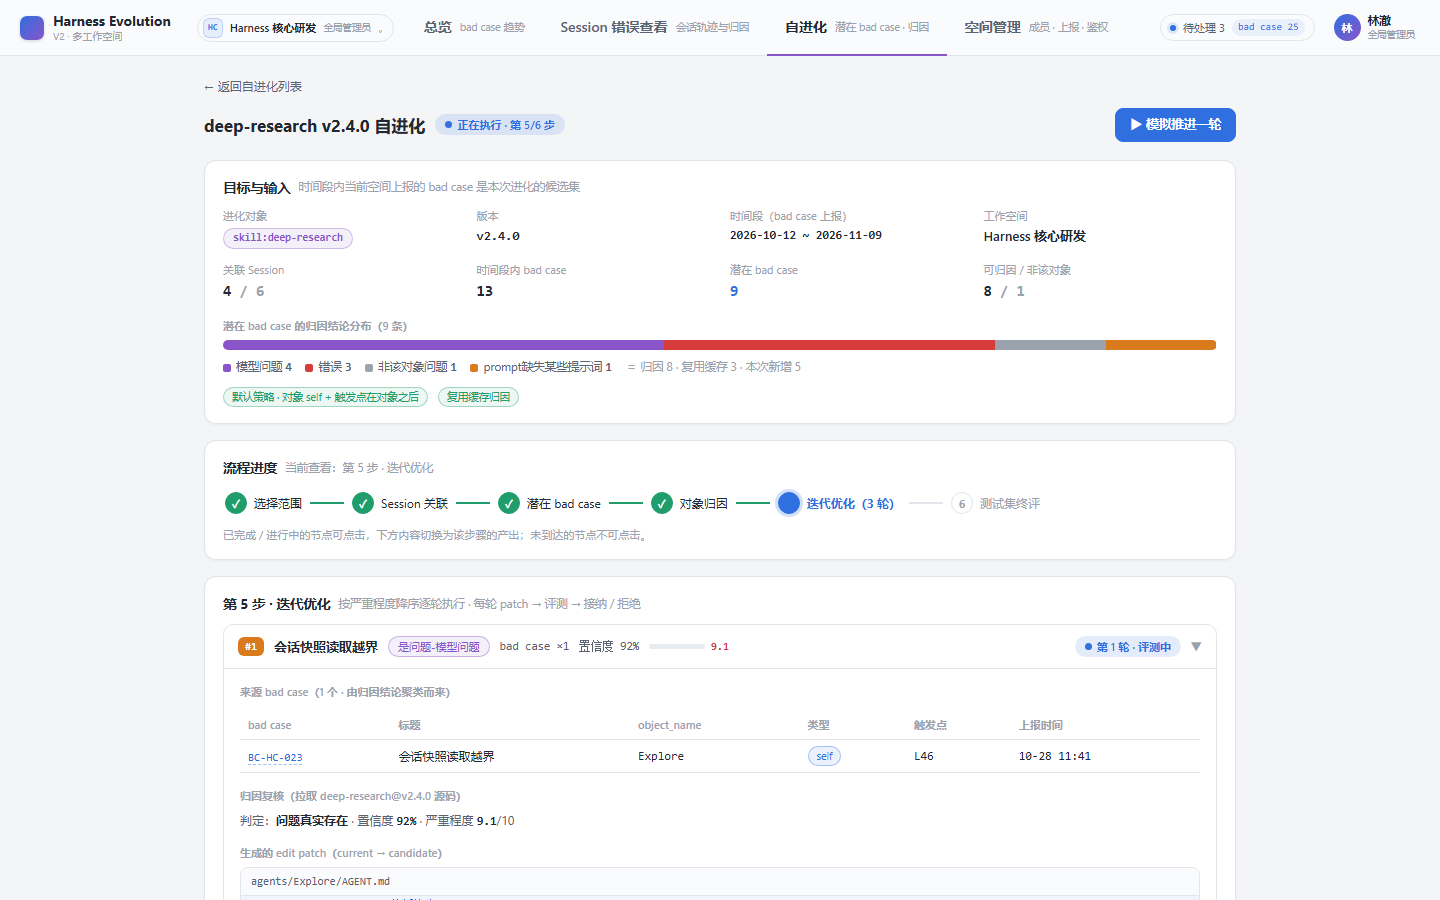
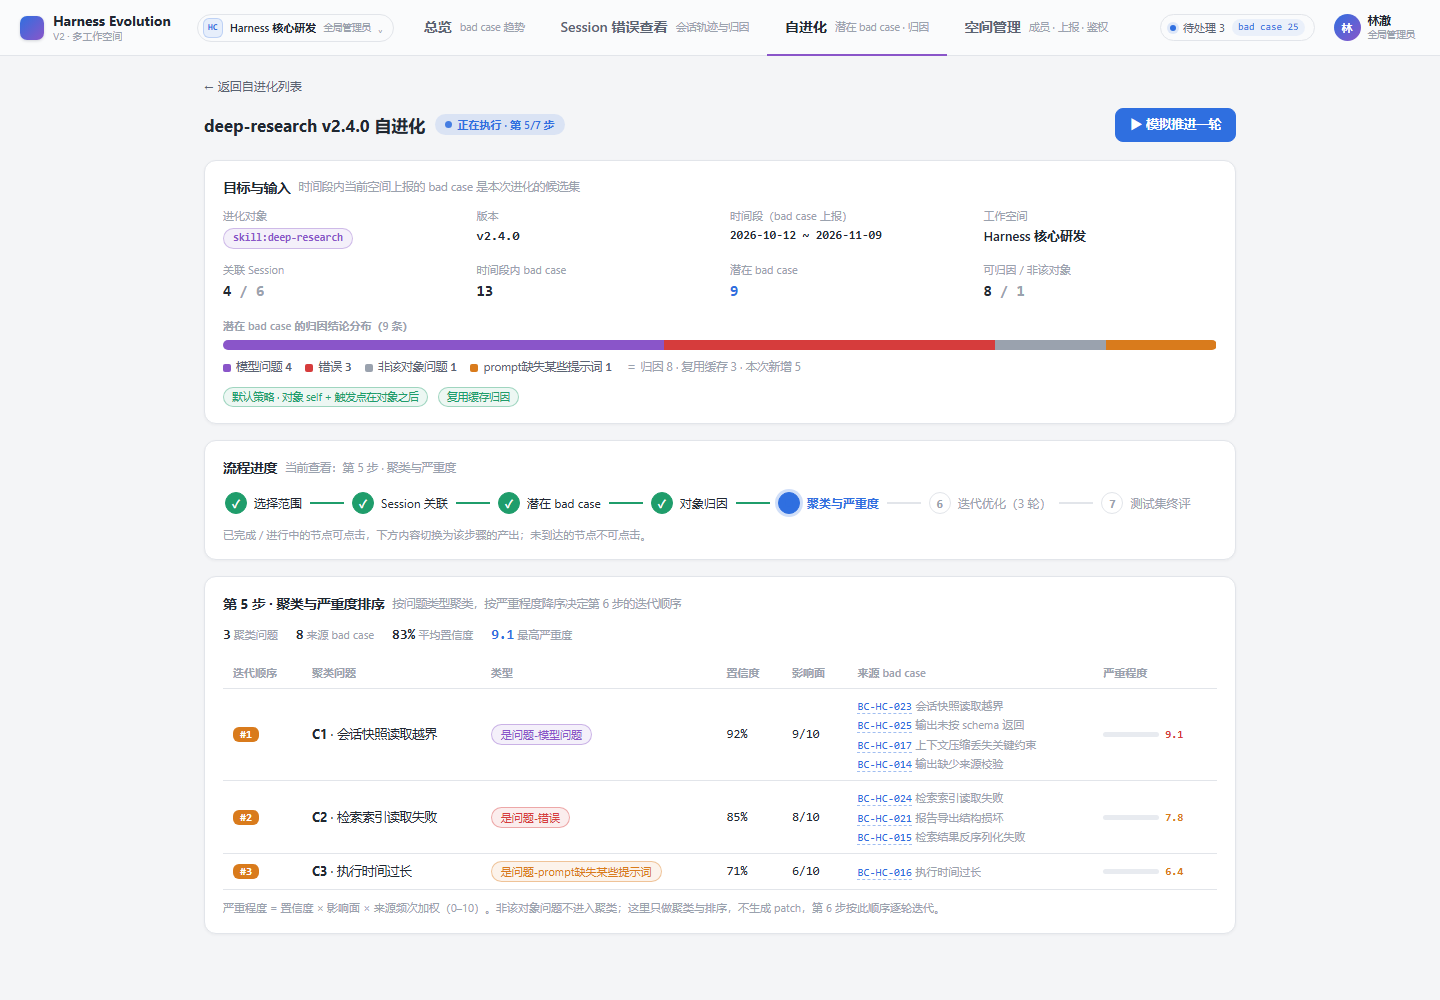
feat(prototype): add cluster and severity step before iteration

diff --git a/plans/ui-prototype-v2/harness-evolution.html b/plans/ui-prototype-v2/harness-evolution.html
@@ -3369,19 +3369,28 @@ function evMakeRun(cfg) {
     if (/计划|拆分/.test(title)) return EV_PATCH.plan;
     return EV_PATCH.deser;
   };
-  run.clusters = attributed.slice(0, count).map((r, i) => {
+  const groups = [];
+  attributed.forEach(r => {
+    let g = groups.find(x => x.category === r.category);
+    if (!g) { g = { category: r.category, rows: [] }; groups.push(g); }
+    g.rows.push(r);
+  });
+  run.clusters = groups.slice(0, count).map((g, i) => {
+    const r = g.rows[0];
     const tpl = EV_CLUSTER_TEMPLATES[i] || EV_CLUSTER_TEMPLATES[0];
     return {
       ...tpl, id: 'C' + (i + 1), title: r.c.title,
       type: typeMap[r.category] || tpl.type,
       phenomenon: r.c.detail, patch: patchFor(r.c.title),
-      caseIds: [r.c.id],
+      caseIds: g.rows.map(x => x.c.id),
       accepted: i === 0 ? true : (i === 1 ? tpl.accepted : false),
       commit: i === 0 ? tpl.commit : (i === 1 ? tpl.commit : null),
     };
   });
+  run.clusters.sort((a, b) => b.sev - a.sev);
   run.final.bestVersion = cfg.target.version + '-best';
   run.progress = cfg.progress ?? 0;
+  if (cfg.progress === 8) run.progress = evTotal(run);
   return run;
 }
 
@@ -3421,18 +3430,25 @@ Object.assign(EV_RUNS[1].final, {
 
 const EV_STATE = { expanded: new Set(), selStep: null, lastDetailId: null, wz: null, targetDialog: null };
 
-function evTotal(run) { return 4 + run.clusters.length + 1; }
+function evTotal(run) { return 5 + run.clusters.length + 1; }
 function evIsDone(run) { return run.progress >= evTotal(run); }
-function evRoundDone(run, i) { return run.progress >= 5 + i; }
-function evRoundActive(run, i) { return run.progress === 4 + i; }
+function evRoundDone(run, i) { return run.progress >= 6 + i; }
+function evRoundActive(run, i) { return run.progress === 5 + i; }
+function evStageIndex(run) {
+  if (run.progress < 5) return run.progress;
+  if (run.progress < 5 + run.clusters.length) return 5;
+  return 6;
+}
 function evStageDone(run, stage) {
-  if (stage === 4) return run.progress >= 4 + run.clusters.length;
-  if (stage === 5) return evIsDone(run);
+  if (stage === 4) return run.progress >= 5;
+  if (stage === 5) return run.progress >= 5 + run.clusters.length;
+  if (stage === 6) return evIsDone(run);
   return run.progress > stage;
 }
 function evStageActive(run, stage) {
-  if (stage === 4) return run.progress >= 4 && run.progress < 4 + run.clusters.length;
-  if (stage === 5) return run.progress === 4 + run.clusters.length && !evIsDone(run);
+  if (stage === 4) return run.progress === 4;
+  if (stage === 5) return run.progress >= 5 && run.progress < 5 + run.clusters.length;
+  if (stage === 6) return run.progress === 5 + run.clusters.length && !evIsDone(run);
   return run.progress === stage;
 }
 function evTypeColor(t) {
@@ -3460,7 +3476,7 @@ function evRunsOfWs() { return EV_RUNS.filter(r => r.workspace === evCurrentWs()
 function evTargetsOfWs() { return (EV_TARGETS[evCurrentWs()] || []).filter(t => t.enabled); }
 
 function evStatusBadge(run) {
-  if (!evIsDone(run)) return `<span class="badge running"><span class="pulse"></span>正在执行 · 第 ${Math.min(6, Math.max(1, run.progress + 1))}/6 步</span>`;
+  if (!evIsDone(run)) return `<span class="badge running"><span class="pulse"></span>正在执行 · 第 ${evStageIndex(run) + 1}/7 步</span>`;
   return run.final.verdict ? `<span class="badge done-ok">✓ 已完成 · 自进化有效</span>` : `<span class="badge done-no">已完成 · 无收益</span>`;
 }
 
@@ -3480,9 +3496,9 @@ function evRunCard(run) {
   const m = run.model;
   let tail;
   if (!evIsDone(run)) {
-    const names = ['选择范围', 'Session 关联', '筛选潜在 bad case', '对象归因', '迭代优化', '测试集终评'];
-    const stage = run.progress < 4 ? run.progress : (run.progress < 4 + run.clusters.length ? 4 : 5);
-    tail = `<div class="run-progress"><div class="bar"><div class="fill" style="width:${pct}%"></div></div><span class="txt">第 ${stage + 1}/6 步 · ${names[stage]} · ${pct}%</span></div>`;
+    const names = ['选择范围', 'Session 关联', '筛选潜在 bad case', '对象归因', '聚类与严重度', '迭代优化', '测试集终评'];
+    const stage = evStageIndex(run);
+    tail = `<div class="run-progress"><div class="bar"><div class="fill" style="width:${pct}%"></div></div><span class="txt">第 ${stage + 1}/7 步 · ${names[stage]} · ${pct}%</span></div>`;
   } else {
     tail = `<div class="final-line"><span style="color:var(--text-dim)">best <b class="mono">${run.final.bestScore.toFixed(1)}</b> vs 初始 <b class="mono">${run.final.initScore.toFixed(1)}</b></span>${evDelta(run.final.bestScore - run.final.initScore)}<span style="color:var(--text-faint)">· 接纳 ${accepted}/${run.clusters.length} 个 patch</span></div>`;
   }
@@ -3561,13 +3577,13 @@ function evInfoPanel(run) {
   </div>`;
 }
 
-const EV_STEPS = ['选择范围', 'Session 关联', '潜在 bad case', '对象归因', '迭代优化', '测试集终评'];
+const EV_STEPS = ['选择范围', 'Session 关联', '潜在 bad case', '对象归因', '聚类与严重度', '迭代优化', '测试集终评'];
 function evStepper(run, sel) {
   return `<div class="stepper">` + EV_STEPS.map((s, i) => {
     const done = evStageDone(run, i), active = evStageActive(run, i);
     const clickable = done || active;
     const ico = done ? '✓' : (active ? '<span class="pulse" style="width:8px;height:8px"></span>' : i + 1);
-    return `${i ? `<div class="conn ${evStageDone(run, i - 1) ? 'done' : ''}"></div>` : ''}<div class="xstep ${done ? 'done' : active ? 'active' : ''}${clickable ? ' clickable' : ''}${sel === i ? ' selected' : ''}"${clickable ? ` data-action="ev-sel-step" data-step="${i}"` : ''}><span class="ico">${ico}</span><span class="lbl">${evEsc(s)}${i === 4 ? `（${run.clusters.length} 轮）` : ''}</span></div>`;
+    return `${i ? `<div class="conn ${evStageDone(run, i - 1) ? 'done' : ''}"></div>` : ''}<div class="xstep ${done ? 'done' : active ? 'active' : ''}${clickable ? ' clickable' : ''}${sel === i ? ' selected' : ''}"${clickable ? ` data-action="ev-sel-step" data-step="${i}"` : ''}><span class="ico">${ico}</span><span class="lbl">${evEsc(s)}${i === 5 ? `（${run.clusters.length} 轮）` : ''}</span></div>`;
   }).join('') + `</div>`;
 }
 
@@ -3709,18 +3725,53 @@ function evCluster(run, c, i) {
   </div>`;
 }
 
+function evStepCluster(run) {
+  const m = run.model;
+  const clusters = run.clusters;
+  const totalCases = new Set(clusters.flatMap(c => c.caseIds || [])).size;
+  const avgConf = clusters.length ? clusters.reduce((a, c) => a + c.conf, 0) / clusters.length : 0;
+  const maxSev = clusters.length ? Math.max(...clusters.map(c => c.sev)) : 0;
+  const rows = clusters.map((c, i) => {
+    const cases = (c.caseIds || []).map(id => {
+      const x = caseById(id);
+      return x ? `<div>${evCaseLink(x)} <span class="v2-note">${evEsc(x.title)}</span></div>` : `<div class="mono">${evEsc(id)}</div>`;
+    }).join('');
+    return `<tr>
+      <td class="num"><span class="rank">#${i + 1}</span></td>
+      <td><b>${evEsc(c.id)}</b> · ${evEsc(c.title)}</td>
+      <td>${evTypeChip(c.type)}</td>
+      <td class="num">${(c.conf * 100).toFixed(0)}%</td>
+      <td class="num">${c.impact}/10</td>
+      <td>${cases || '<span class="v2-note">—</span>'}</td>
+      <td>${evSevHTML(c.sev)}</td>
+    </tr>`;
+  }).join('');
+  return `<div class="card panel">
+    <div class="sec-title">第 5 步 · 聚类与严重度排序 <span class="sub">按问题类型聚类，按严重程度降序决定第 6 步的迭代顺序</span></div>
+    <div class="wz-stats" style="margin-bottom:11px">
+      <span class="st"><b>${clusters.length}</b><span>聚类问题</span></span>
+      <span class="st"><b>${totalCases}</b><span>来源 bad case</span></span>
+      <span class="st"><b>${(avgConf * 100).toFixed(0)}%</b><span>平均置信度</span></span>
+      <span class="st accent"><b>${maxSev.toFixed(1)}</b><span>最高严重度</span></span>
+    </div>
+    <table class="metrics"><thead><tr><th>迭代顺序</th><th>聚类问题</th><th>类型</th><th>置信度</th><th>影响面</th><th>来源 bad case</th><th>严重程度</th></tr></thead>
+      <tbody>${rows || '<tr><td colspan="7" class="waiting">没有可聚类的归因结论</td></tr>'}</tbody></table>
+    <p class="v2-note" style="margin-top:9px">严重程度 = 置信度 × 影响面 × 来源频次加权（0–10）。非该对象问题不进入聚类；这里只做聚类与排序，不生成 patch，第 6 步按此顺序逐轮迭代。</p>
+  </div>`;
+}
+
 function evStepIter(run) {
   return `<div class="card panel">
-    <div class="sec-title">第 5 步 · 迭代优化 <span class="sub">按严重程度降序逐轮执行 · 每轮 patch → 评测 → 接纳 / 拒绝</span></div>
+    <div class="sec-title">第 6 步 · 迭代优化 <span class="sub">基于第 5 步聚类与严重度排序，逐轮执行 patch → 评测 → 接纳 / 拒绝</span></div>
     ${run.clusters.length ? run.clusters.map((c, i) => evCluster(run, c, i)).join('') : '<div class="waiting">没有可归因的潜在 bad case，本次运行不进入迭代。</div>'}
   </div>`;
 }
 function evStepFinal(run) {
-  if (!evIsDone(run)) return `<div class="card panel"><div class="sec-title">第 6 步 · 测试集终评</div><div class="waiting">等待 ${run.clusters.length} 轮迭代全部完成后，在测试集上评测 best 与初始版本。</div></div>`;
+  if (!evIsDone(run)) return `<div class="card panel"><div class="sec-title">第 7 步 · 测试集终评</div><div class="waiting">等待 ${run.clusters.length} 轮迭代全部完成后，在测试集上评测 best 与初始版本。</div></div>`;
   const f = run.final;
   const accepted = run.clusters.filter(c => c.accepted);
   return `<div class="card panel">
-    <div class="sec-title">第 6 步 · 测试集终评 <span class="sub">M 轮迭代完成后的最终结果</span></div>
+    <div class="sec-title">第 7 步 · 测试集终评 <span class="sub">M 轮迭代完成后的最终结果</span></div>
     <div class="verdict ${f.verdict ? 'ok' : 'no'}">
       <span class="big">${f.verdict ? '✓ 自进化有效' : '✗ 未产生收益'}</span>
       <span class="desc">best <b class="mono">${evEsc(f.bestVersion)}</b> 测试集得分 <b class="mono">${f.bestScore.toFixed(1)}</b> vs 初始 ${run.target.version} <b class="mono">${f.initScore.toFixed(1)}</b>（${evDelta(f.bestScore - f.initScore)}）</span>
@@ -3734,11 +3785,11 @@ function evStepFinal(run) {
 }
 
 function evStepContent(run, sel) {
-  return [evStepScope, evStepAssoc, evStepPotential, evStepAttr, evStepIter, evStepFinal][sel](run);
+  return [evStepScope, evStepAssoc, evStepPotential, evStepAttr, evStepCluster, evStepIter, evStepFinal][sel](run);
 }
 function evDefaultStep(run) {
-  for (let i = 0; i < 6; i++) if (evStageActive(run, i)) return i;
-  return 5;
+  for (let i = 0; i < 7; i++) if (evStageActive(run, i)) return i;
+  return 6;
 }
 
 function evRenderDetail(id) {
@@ -3750,7 +3801,7 @@ function evRenderDetail(id) {
     const ai = run.clusters.findIndex((c, i) => evRoundActive(run, i));
     if (run.clusters[ai >= 0 ? ai : 0]) EV_STATE.expanded.add(id + ':' + run.clusters[ai >= 0 ? ai : 0].id);
   }
-  const sel = Math.min(5, Math.max(0, EV_STATE.selStep));
+  const sel = Math.min(6, Math.max(0, EV_STATE.selStep));
   evApp.innerHTML = `<div class="wrap">
     <a class="back" href="#/runs">← 返回自进化列表</a>
     <div class="detail-head">
@@ -3873,7 +3924,7 @@ function evWzRun() {
     target: { kind: t.kind, name: t.objectName, version: EV_STATE.wz.version },
     window: [EV_STATE.wz.from, EV_STATE.wz.to], policy: EV_STATE.wz.policy,
     policyRules: { includeSelf: EV_STATE.wz.includeSelf, includeAfter: EV_STATE.wz.includeAfter, sameObject: EV_STATE.wz.sameObject },
-    cache: EV_STATE.wz.cache, progress: 4,
+    cache: EV_STATE.wz.cache, progress: 5,
   };
 }
 function evWizardModel() { const r = evWzRun(); return { run: r, m: evRunModel(r) }; }
@@ -4068,7 +4119,7 @@ document.addEventListener('click', e => {
       target: { kind: t.kind, name: t.objectName, version: EV_STATE.wz.version },
       window: [EV_STATE.wz.from, EV_STATE.wz.to], policy: EV_STATE.wz.policy,
       policyRules: { includeSelf: EV_STATE.wz.includeSelf, includeAfter: EV_STATE.wz.includeAfter, sameObject: EV_STATE.wz.sameObject },
-      cache: EV_STATE.wz.cache, createdAt: '2026-11-10 09:10', progress: 4,
+      cache: EV_STATE.wz.cache, createdAt: '2026-11-10 09:10', progress: 5,
     });
     EV_RUNS.unshift(run);
     evModal.innerHTML = ''; EV_STATE.expanded.clear(); EV_STATE.selStep = null; EV_STATE.lastDetailId = null;
@@ -4109,6 +4160,7 @@ window.startEvolutionFromCase = function (caseId) {
   evWizardOpen(caseId);
 };
 window.__evOpenWizard = evWizardOpen;
+window.EV_RUNS = EV_RUNS;
 window.__evRenderWizard = evRenderWizard;
 window.__evState = EV_STATE;
 
@@ -4931,8 +4983,16 @@ function v2Boot() {
     v2LoginAs(userParam, { keepPage: true, silent: true, auto: true });
     v2SetPage(V2.page);
     if (q.has('step') && window.__evState) {
-      window.__evState.selStep = Math.max(0, Math.min(5, Number(q.get('step')) || 0));
+      window.__evState.selStep = Math.max(0, Math.min(6, Number(q.get('step')) || 0));
       if (window.evRoute) window.evRoute();
+    }
+    if (q.has('runprogress') && window.evRenderDetail) {
+      const rm = location.hash.match(/#\/run\/([^/?]+)/);
+      const run = rm && window.EV_RUNS && window.EV_RUNS.find(r => r.id === rm[1]);
+      if (run) {
+        run.progress = Math.max(0, Math.min(evTotal(run), Number(q.get('runprogress')) || 0));
+        window.evRenderDetail(run.id);
+      }
     }
     if (q.get('page') === 'session' && q.get('view') === 'errors') {
       const apply = () => { if (window.__bootDeepLink) window.__bootDeepLink(q); };

diff --git a/plans/ui-prototype-v2/v1-v2-report.html b/plans/ui-prototype-v2/v1-v2-report.html
@@ -140,7 +140,7 @@
           <li><code>--bg #f4f5f7</code>、12px 卡片、蓝/紫/橙/红语义色、13px 正文</li>
           <li>Session 卡片、状态点、两条密度条、10 格统计条</li>
           <li>React Flow 家族树、问题卡、执行流选中联动</li>
-          <li>自进化 run-card、6 步 stepper、cluster/diff/eval/commit</li>
+          <li>自进化 run-card、7 步 stepper、cluster/diff/eval/commit</li>
           <li>启动向导 modal、条件摘要条、分页表格</li>
         </ul>
       </div>
@@ -169,7 +169,7 @@
         <tr><td>3</td><td><b>空间上报接口与 bad case 额度</b></td><td>每空间独立 <code>POST /api/workspaces/{id}/bad-cases</code>、凭据、额度、请求体示例；创建后可调额度；409 说明</td><td>上报接入截图</td></tr>
         <tr><td>4</td><td><b>空间总览：object × 时间 × self/discovery，列表分页下钻</b></td><td>总览页：日/周/月、object_name 多选、self/discovery 堆叠、对象分布、组合筛选列表、点击行进入对应 bad case 问题描述</td><td>总览截图</td></tr>
         <tr><td>5</td><td><b>Session 默认 10 个；输入 session ID 回车重查</b></td><td>侧栏显示「最新 10 / 13」；输入 root session ID 回车命中老 Session；清空回车恢复 10 条；无命中空态</td><td>Session 截图</td></tr>
-        <tr><td>6</td><td><b>归因进入自进化流程；对象关联、潜在策略、缓存</b></td><td>向导 4 步（关联 / 潜在各自分页）；详情 6 步；默认策略 = self ∪ 触发点在对象之后；自定义规则；缓存开关与复用/新增/非该对象统计</td><td>向导 2/3 步截图</td></tr>
+        <tr><td>6</td><td><b>归因进入自进化流程；对象关联、潜在策略、缓存</b></td><td>向导 4 步（关联 / 潜在各自分页）；详情 7 步；默认策略 = self ∪ 触发点在对象之后；自定义规则；缓存开关与复用/新增/非该对象统计</td><td>向导 2/3 步截图</td></tr>
         <tr><td>7</td><td><b>错误详情：一个 bad case 多条归因，左栏可折叠 + 分页</b></td><td>bad case 组折叠；每组归因子项按对象版本分页（2 条/页）；点击子项进入归因分析；未归因状态</td><td>错误详情截图</td></tr>
       </tbody>
     </table>
@@ -252,8 +252,9 @@
       <div class="step on"><b>2 Session 关联</b>对象是否出现</div>
       <div class="step on"><b>3 潜在 bad case</b>self ∪ 触发点之后</div>
       <div class="step on"><b>4 对象归因</b>可归因 / 非该对象 / 缓存</div>
-      <div class="step"><b>5 迭代优化</b>patch → eval → accept</div>
-      <div class="step"><b>6 终评</b>best vs 初始</div>
+      <div class="step on"><b>5 聚类与排序</b>按类型聚类 · 严重度降序</div>
+      <div class="step"><b>6 迭代优化</b>按簇 patch → eval → accept</div>
+      <div class="step"><b>7 终评</b>best vs 初始</div>
     </div>
     <div class="compare">
       <div class="shot">
@@ -279,7 +280,7 @@
         <div class="cap">「复用缓存归因」开关；预览潜在 / 复用 / 新增 / 非该对象四类数量；缓存键包含空间、bad case、对象版本、策略与模型版本。</div>
       </div>
     </div>
-    <div class="note" style="margin-top:12px">本次迭代把原第 2 步拆成两步：<b>第 2 步只看关联 Session</b>（4 条/页），<b>第 3 步只看潜在 bad case</b>（5 条/页）；归因预览移到第 4 步。修改前后对照见 <a href="screenshots-v2/v2-wizard-split-before-after.png" target="_blank">拆分前后截图</a>。</div>
+    <div class="note" style="margin-top:12px">本次迭代把原第 2 步拆成两步：<b>第 2 步只看关联 Session</b>（4 条/页），<b>第 3 步只看潜在 bad case</b>（5 条/页）；归因预览移到第 4 步。运行详情在归因后新增<b>第 5 步聚类与严重度排序</b>，迭代顺延到第 6 步。修改前后对照见 <a href="screenshots-v2/v2-wizard-split-before-after.png" target="_blank">向导拆分截图</a> / <a href="screenshots-v2/v2-evo-step5-insert-before-after.png" target="_blank">聚类步骤截图</a>。</div>
     <h3>运行详情：把“为什么进入这次进化”讲清楚</h3>
     <div class="compare">
       <div class="shot">
@@ -290,7 +291,7 @@
       <div class="shot">
         <div class="bar"><b>V2 · 运行详情</b><span class="tag">关联 → 潜在 → 归因 → 迭代</span></div>
         <a href="screenshots-v2/v2-evo-detail.png" target="_blank"><img src="screenshots-v2/v2-evo-detail.png" alt="V2 运行详情"></a>
-        <div class="cap">V2：信息面板显示关联 Session、时间段内 bad case、潜在 bad case、可归因/非该对象；第 3 步潜在表在 bad case 前显示关联 Session（标题 + 根会话 ID），聚类来源改为 bad case 链接。</div>
+        <div class="cap">V2：信息面板显示关联 Session、时间段内 bad case、潜在 bad case、可归因/非该对象；第 3 步潜在表在 bad case 前显示关联 Session（标题 + 根会话 ID）；新增第 5 步聚类与严重度排序，迭代顺延到第 6 步；聚类来源改为 bad case 链接。</div>
       </div>
     </div>
     <div class="grid2" style="margin-top:12px">

diff --git a/plans/ui-prototype-v2/design-v2.md b/plans/ui-prototype-v2/design-v2.md
@@ -150,7 +150,9 @@ Content-Type: application/json
   → 对关联 Session 找对象触发点与所有 bad case 触发点
   → 按潜在策略筛选潜在 bad case
   → 对每个潜在 bad case 生成「对象版本级」归因
-  → 归因后的 bad case 进入聚类 / 迭代 / 终评
+  → 对归因后的 bad case 按问题类型聚类，按严重程度降序排序
+  → 按聚类结果逐轮打 patch / 评测 / 接纳
+  → 测试集终评
 ```
 
 原型把 Session 关联与潜在 bad case 拆成向导第 2、3 步：第 2 步只看关联 Session（分页），第 3 步只看潜在 bad case（分页），第 4 步才做归因预览与启动。
